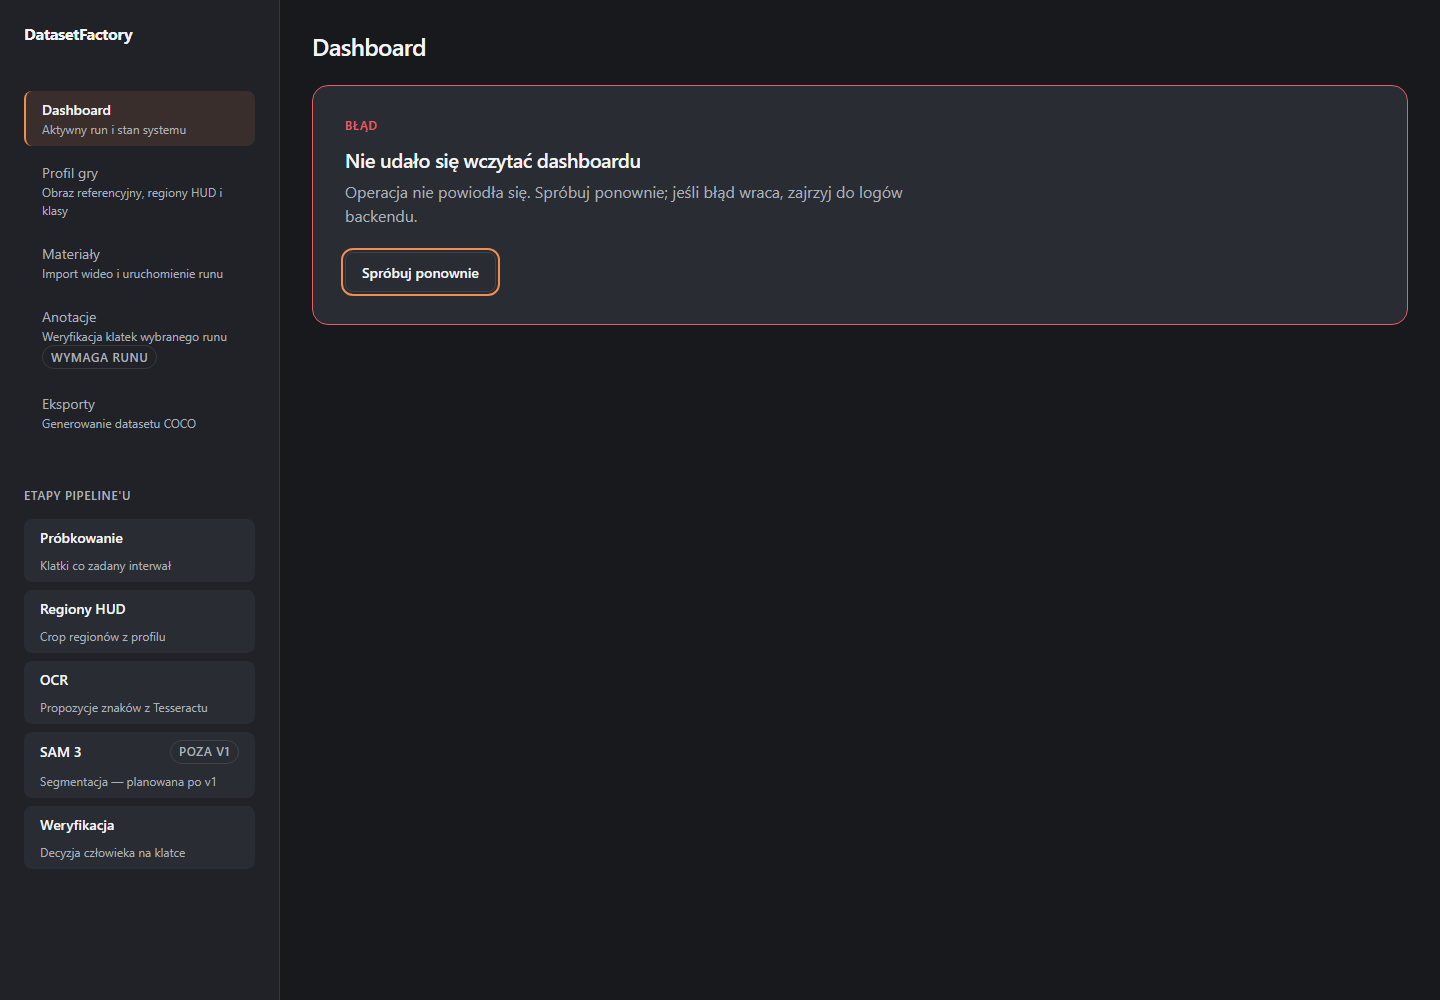
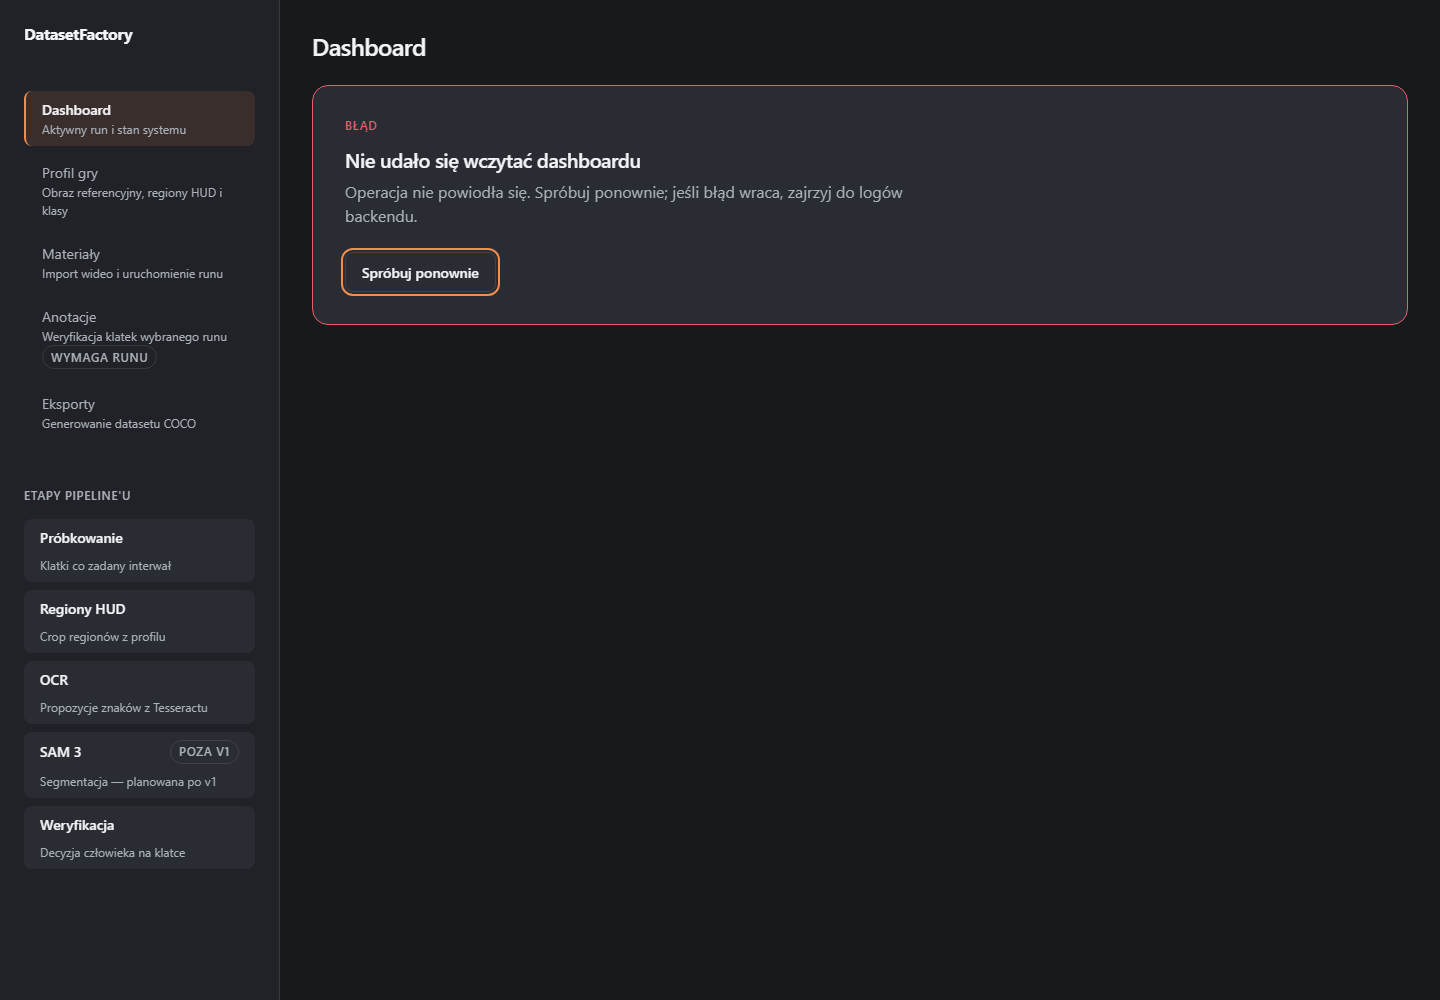
test(fe-001-f5-fix2): stabilize chromium rasterization

diff --git a/frontend/playwright.config.ts b/frontend/playwright.config.ts
@@ -14,6 +14,9 @@ export default defineConfig({
     ...devices["Desktop Chrome"],
     baseURL: "http://127.0.0.1:5173",
     browserName: "chromium",
+    launchOptions: {
+      args: ["--disable-gpu", "--disable-lcd-text", "--font-render-hinting=none"],
+    },
     trace: "retain-on-failure",
     viewport: { width: 1440, height: 1000 },
   },
